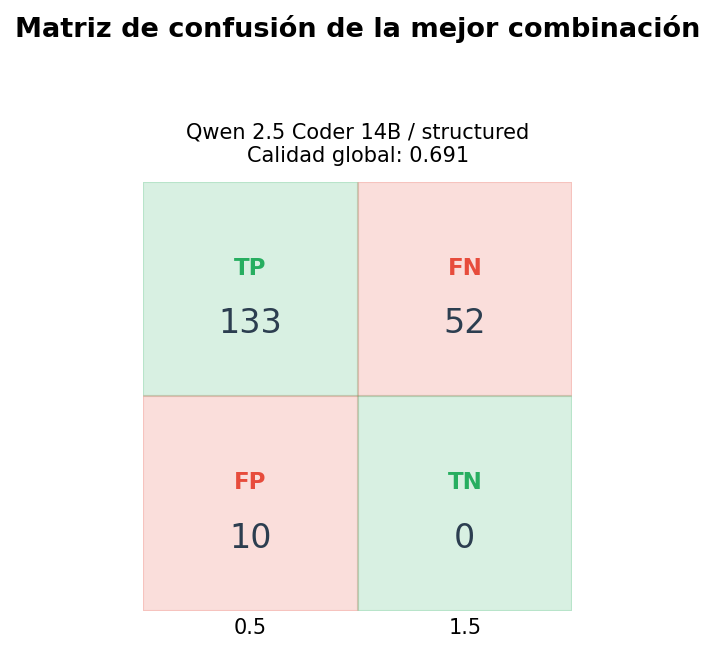
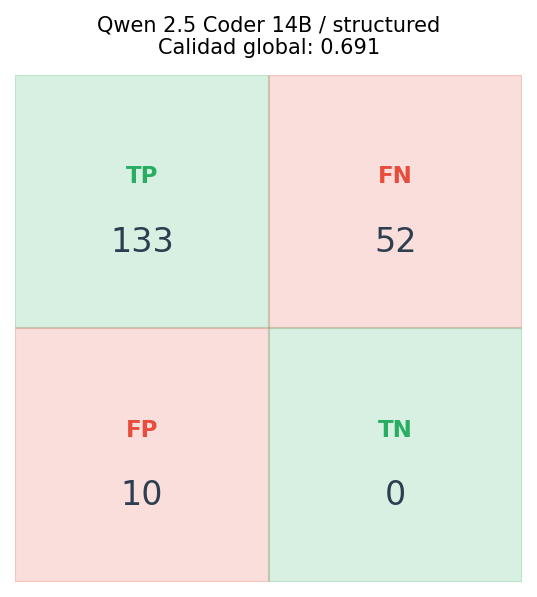
fix comments

diff --git a/evaluation/scripts/evaluate_retrieval.py b/evaluation/scripts/evaluate_retrieval.py
@@ -565,9 +565,7 @@ def _generate_best_confusion_matrix(
 
     ax.set_xlim(0, 2)
     ax.set_ylim(0, 2)
-    ax.set_xticks([0.5, 1.5])
-
-    # Se eliminan las etiquetas laterales "pred: sí" y "pred: no".
+    ax.set_xticks([])
     ax.set_yticks([])
 
     ax.set_title(
@@ -582,12 +580,6 @@ def _generate_best_confusion_matrix(
         spine.set_visible(False)
     ax.tick_params(length=0)
 
-    fig.suptitle(
-        "Matriz de confusión de la mejor combinación",
-        fontsize=13,
-        fontweight="bold",
-        y=0.98,
-    )
     fig.tight_layout(rect=[0, 0, 1, 0.93])
 
     path = images_dir / "chart_confusion_best.png"
